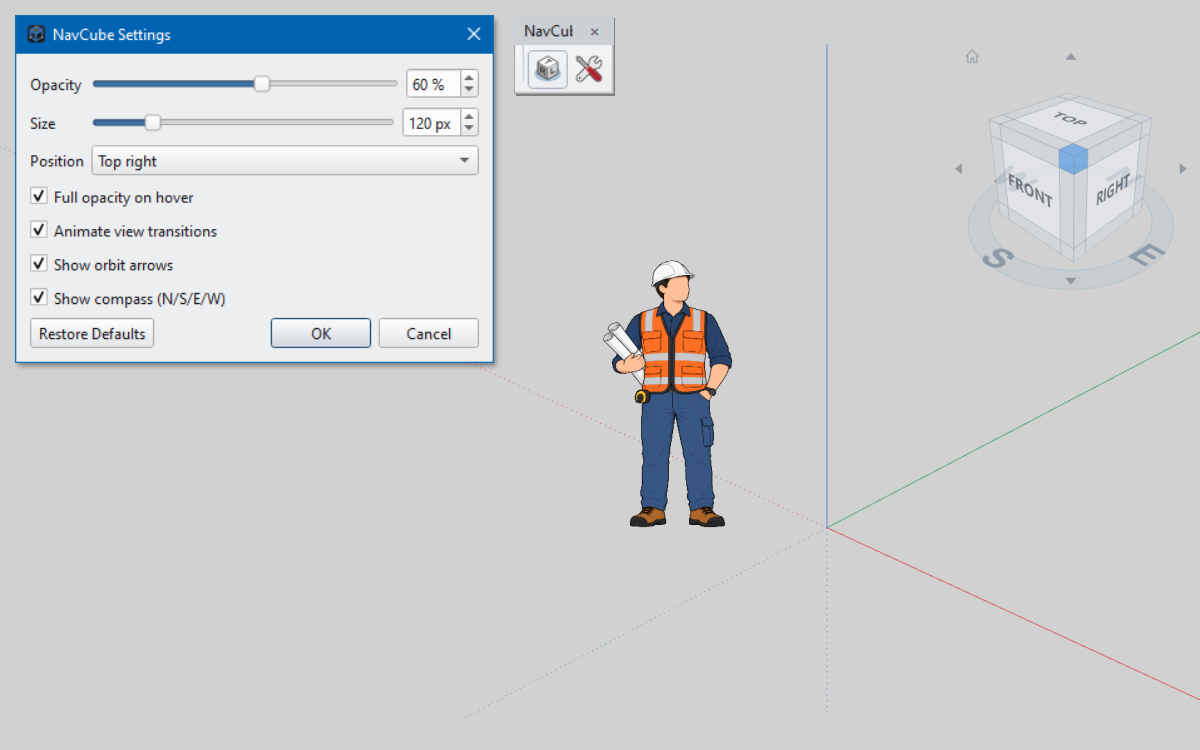
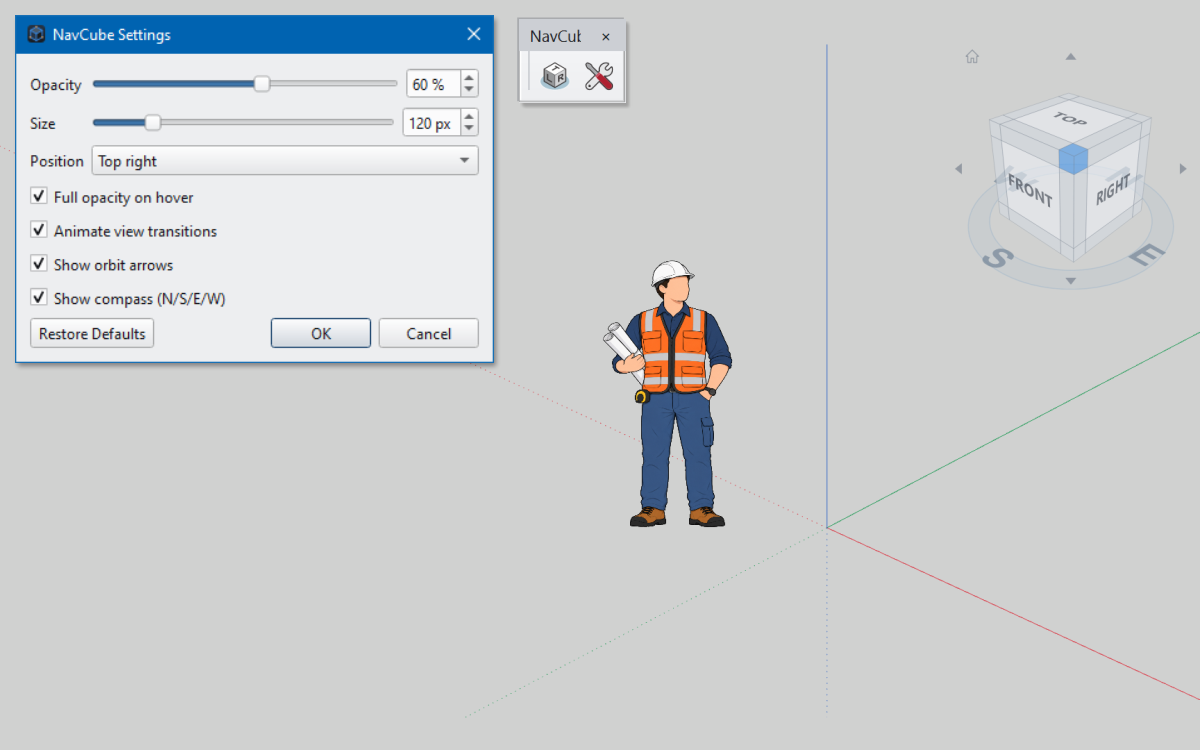
NavCube 1.0.1: address catalogue review feedback
- Stop touching sys.path from the package entry point

- Remove the import-time autostart and the unused entry-point aliases

- Redraw the viewport with cam.place() + viewport.update() only

- Bump the version to 1.0.1 in the READMEs and build script

Changed region(s): [[0.4317, 0.0307, 0.5242, 0.1533]]

diff --git a/igz_navcube/core/core.py b/igz_navcube/core/core.py
@@ -1,4 +1,10 @@
-"""igz_navcube core: translations (KEYS), persisted settings and the host adapter."""
+"""
+igz_navcube.core.core - Translations (KEYS), persisted settings, and host adapter.
+
+Version: 1.0.1
+Author: Ezequiel Mendonça Rezende (ARK-Z Arquitetura Ltda)
+License: GPL-3.0-or-later
+"""
 import json
 import os
 import re
@@ -8,7 +14,6 @@ from dataclasses import dataclass, fields
 
 from PySide6.QtCore import QLocale, QSettings, Qt
 from PySide6.QtWidgets import QApplication, QMainWindow, QWidget
-
 
 try:                                    # Qt6: lives in its own module
     from PySide6.QtOpenGLWidgets import QOpenGLWidget
@@ -20,6 +25,7 @@ _I18N_DIR = os.path.join(_PACKAGE_DIR, "i18n")
 DEFAULT_LOCALE = "en-US"
 _strings = {}
 
+
 # ------------------------------------------------------------------ i18n
 def _read_json(locale):
     try:
@@ -28,9 +34,9 @@ def _read_json(locale):
     except (OSError, ValueError):
         return {}
 
+
 def _host_language() -> str:
     """Retorna o idioma atual do IngeTrazo (código tipo 'en-US', 'pt-BR')."""
-    # Tenta o mesmo hook que o sunpath usa
     try:
         from core.i18n import current_language
         lang = current_language()
@@ -38,9 +44,9 @@ def _host_language() -> str:
             return str(lang).replace("_", "-")
     except Exception:
         pass
-    # Fallback: QLocale
     return QLocale().name().replace("_", "-")
-    
+
+
 def load_language(locale=None):
     """Load en-US (base keys) and overlay the requested locale, if a file exists."""
     global _strings
@@ -200,10 +206,8 @@ class IngeTrazoHost(Host):
 
     Window, viewport and camera are discovered by name. The canonical camera
     is ``vp.camera`` (a ``core.camera.OrbitCamera``) with ``eye``, ``target``
-    and ``up`` attributes. Writing to it directly bypasses the IngeTrazo
-    frame cache (``_painted_view`` / ``_frame_cache_fbo`` / ``_sil_cam``),
-    which leaves black tiles in the viewport. ``set_camera`` therefore
-    invalidates those caches after every write.
+    and ``up`` attributes, updated via ``cam.place(...)`` followed by
+    ``vp.update()``.
     """
 
     Y_UP = False
@@ -334,42 +338,23 @@ class IngeTrazoHost(Host):
         x, y, z = v
         return (x, z, -y) if self.Y_UP else (x, y, z)
 
-    # ------------------------------------------------ invalidação de cache
     def _invalidate_viewport_caches(self, vp):
-        """Invalida APENAS os caches seguros do Viewport do IngeTrazo.
-    
-        Zerar ``_painted_view`` / ``_sil_cam`` / ``_sil_cam_t`` força
-        ``_paint_frame()`` a recompor o frame inteiro em vez de reaproveitar
-        o ``_frame_cache_fbo`` — sem tocar em FBOs nem em métodos internos
-        (que podem derrubar o pipeline de pick/snap).
-        """
-        if vp is None:
-            return
-        try:
-            if hasattr(vp, "_painted_view"):
-                vp._painted_view = None
-        except Exception:
-            traceback.print_exc()
-        try:
-            if hasattr(vp, "_sil_cam"):
-                vp._sil_cam = None
-        except Exception:
-            traceback.print_exc()
-        try:
-            if hasattr(vp, "_sil_cam_t"):
-                vp._sil_cam_t = 0.0
-        except Exception:
-            traceback.print_exc()
+        """Request a viewport redraw after camera updates."""
+        if vp is not None:
+            try:
+                vp.update()
+            except Exception:
+                traceback.print_exc()
 
     def get_camera(self):
         _vp, cam = self._find_orbit_camera()
         if cam is None:
             self._diagnose()
             raise NotImplementedError(tr("navcube.error.camera_unavailable"))
-    
+
         eye_attr = cam.eye
         eye = eye_attr() if callable(eye_attr) else eye_attr
-    
+
         e = self._zup(_to_tuple(eye))
         t = self._zup(_to_tuple(cam.target))
         u = self._zup(_to_tuple(cam.up))
@@ -380,7 +365,7 @@ class IngeTrazoHost(Host):
         if cam is None:
             self._diagnose()
             raise NotImplementedError(tr("navcube.error.camera_unavailable"))
-    
+
         # lê eye atual (pode ser método) e target
         eye_attr = cam.eye
         eye = eye_attr() if callable(eye_attr) else eye_attr
@@ -389,17 +374,15 @@ class IngeTrazoHost(Host):
         dist = sum((a - b) ** 2 for a, b in zip(e, t)) ** 0.5 or 1.0
         n = sum(c * c for c in toward) ** 0.5 or 1.0
         new_eye = tuple(t[i] + dist * toward[i] / n for i in range(3))
-    
+
         # Converte para o sistema nativo do IngeTrazo (QVector3D, Y-up se for o caso)
         native_eye = self._native(new_eye)
         native_target = self._native(t)
-    
+
         eye_vec = _like(eye, native_eye)
         tgt_vec = _like(cam.target, native_target)
-    
-        # ==== CAMINHO CANÔNICO: usa place() do IngeTrazo ====
-        # place() já atualiza eye/target/up/view_matrix e invalida o cache
-        # interno do Viewport (é o mesmo caminho que o mouse do IngeTrazo usa).
+
+        # Caminho canônico: place() atualiza eye/target/up/view_matrix
         placed = False
         try:
             if hasattr(cam, "place"):
@@ -407,30 +390,14 @@ class IngeTrazoHost(Host):
                 placed = True
         except Exception:
             traceback.print_exc()
-    
-        # fallback: escreve eye/up na mão (só se place() não existir/falhar)
+
+        # Fallback: escreve eye/up manualmente apenas se place() não existir/falhar
         if not placed:
             setattr(cam, "eye", eye_vec)
             setattr(cam, "up", _like(cam.up, self._native(up)))
-    
-        # CRÍTICO: limpa o cache de frame do Viewport.
-        # Sem isso, _paint_frame() reaproveita o _frame_cache_fbo antigo
-        # e pinta apenas tiles (os "quadrinhos pretos").
+
         if vp is not None:
-            try:
-                if hasattr(vp, "_painted_view"):
-                    vp._painted_view = None
-            except Exception:
-                traceback.print_exc()
-            try:
-                if hasattr(vp, "_sil_cam"):
-                    vp._sil_cam = None
-                if hasattr(vp, "_sil_cam_t"):
-                    vp._sil_cam_t = 0.0
-            except Exception:
-                traceback.print_exc()
             try:
                 vp.update()
             except Exception:
                 traceback.print_exc()
-                

diff --git a/igz_navcube/core/igz_navcube.py b/igz_navcube/core/igz_navcube.py
@@ -1,8 +1,13 @@
-"""igz_navcube - setup, toolbar and commands."""
+"""
+igz_navcube.core.igz_navcube - Plugin lifecycle, toolbar, and menu commands.
+
+Version: 1.0.1
+Author: Ezequiel Mendonça Rezende (ARK-Z Arquitetura Ltda)
+License: GPL-3.0-or-later
+"""
 import importlib.util
 import os
 import sys
-import traceback
 import unicodedata
 
 from PySide6.QtCore import QPointF, Qt, QTimer
@@ -28,6 +33,7 @@ def _load_sibling(alias, filename):
         sys.modules.pop(alias, None)
         raise
     return mod
+
 
 try:
     from .core import (IngeTrazoHost, NavCubeSettings, _host_language,
@@ -165,7 +171,7 @@ class NavCubePlugin:
             "扩展程序",
             "插件",
         }
-        
+
         for action in menubar.actions():
             menu = action.menu()
             if menu is None:
@@ -191,7 +197,6 @@ class NavCubePlugin:
 
         sub = QMenu("NavCube", ext_menu)
         sub.setObjectName("igz_navcube_menu")
-        sub.setIcon(_svg_icon("navcube.svg", icon_cube))
 
         act_toggle = QAction(
             _svg_icon("navcube.svg", icon_cube),
@@ -369,24 +374,3 @@ def unregister(app=None):
     if _plugin is not None:
         _plugin.teardown()
         _plugin = None
-
-
-# Common entry-point names, so whichever one the IngeTrazo loader calls works.
-setup = init = activate = on_load = register_plugin = register
-
-
-def _autostart(tries=0):
-    """Self-start after import, retrying until the main window is visible."""
-    if _plugin is not None:
-        return
-    try:
-        register()
-    except Exception:
-        if tries < 40:
-            QTimer.singleShot(500, lambda: _autostart(tries + 1))
-        else:
-            traceback.print_exc()
-
-
-if QApplication.instance() is not None and not os.environ.get("IGZ_NAVCUBE_NO_AUTOSTART"):
-    QTimer.singleShot(0, _autostart)

diff --git a/igz_navcube/__init__.py b/igz_navcube/__init__.py
@@ -1,15 +1,18 @@
-"""igz_navcube - AutoCAD/Revit-style navigation cube overlay for IngeTrazo."""
+"""
+igz_navcube - AutoCAD/Revit-style navigation cube overlay for IngeTrazo.
+
+Version: 1.0.1
+Author: Ezequiel Mendonça Rezende (ARK-Z Arquitetura Ltda)
+License: GPL-3.0-or-later
+"""
 import importlib.util
 import os
 import sys
 
+__version__ = "1.0.1"
+
 _PLUGIN_DIR = os.path.dirname(os.path.abspath(__file__))
 _CORE_DIR = os.path.join(_PLUGIN_DIR, "core")
-_PARENT_DIR = os.path.dirname(_PLUGIN_DIR)
-
-for _p in (_PARENT_DIR, _PLUGIN_DIR):
-    if _p and _p not in sys.path:
-        sys.path.insert(0, _p)
 
 
 def _load_local_module(mod_name, file_path):
@@ -46,18 +49,10 @@ def setup(app=None, host=None):
     return register(app=app, host=host)
 
 
-init = _main_mod.init
-activate = _main_mod.activate
-on_load = _main_mod.on_load
-register_plugin = _main_mod.register_plugin
-
 __all__ = [
+    "__version__",
     "NavCubePlugin",
     "register",
     "unregister",
     "setup",
-    "init",
-    "activate",
-    "on_load",
-    "register_plugin",
 ]

diff --git a/build_zip.py b/build_zip.py
@@ -24,7 +24,7 @@ SKIP_SUFFIXES = {".pyc", ".pyo"}
 
 
 def version():
-    """The version announced in README.md (``- **Version:** 1.0.0``)."""
+    """The version announced in README.md (``- **Version:** 1.0.1``)."""
     text = (ROOT / "README.md").read_text(encoding="utf-8")
     match = re.search(r"\*\*Version:\*\*\s*([0-9][0-9A-Za-z.+_-]*)", text)
     if not match:

diff --git a/README_ptBR.md b/README_ptBR.md
@@ -5,8 +5,8 @@ Um cubo de navegação 3D interativo no estilo CAD para o **IngeTrazo**, inspira
 ---
 
 - **Autor:** Ezequiel M. Rezende
-- **Data:** 2026-11-21
-- **Versão:** 1.0.0
+- **Data:** 2026-11-27
+- **Versão:** 1.0.1
 - **Licença:** [GPL-3.0-or-later](https://www.gnu.org/licenses/gpl-3.0.html)
   (mesma do IngeTrazo — ver [LICENSE](https://github.com/ingelibre/ingetrazo/blob/main/LICENSE))
 

diff --git a/README.md b/README.md
@@ -4,8 +4,8 @@ An interactive, CAD-style 3D Navigation Cube overlay for **IngeTrazo**, inspired
 
 ---
 - **Author:** Ezequiel M. Rezende
-- **Date:** 2026-11-21
-- **Version:** 1.0.0
+- **Date:** 2026-11-27
+- **Version:** 1.0.1
 - **License:** [GPL-3.0-or-later](https://www.gnu.org/licenses/gpl-3.0.html)
   (same as IngeTrazo — see [LICENSE](https://github.com/ingelibre/ingetrazo/blob/main/LICENSE))
 
